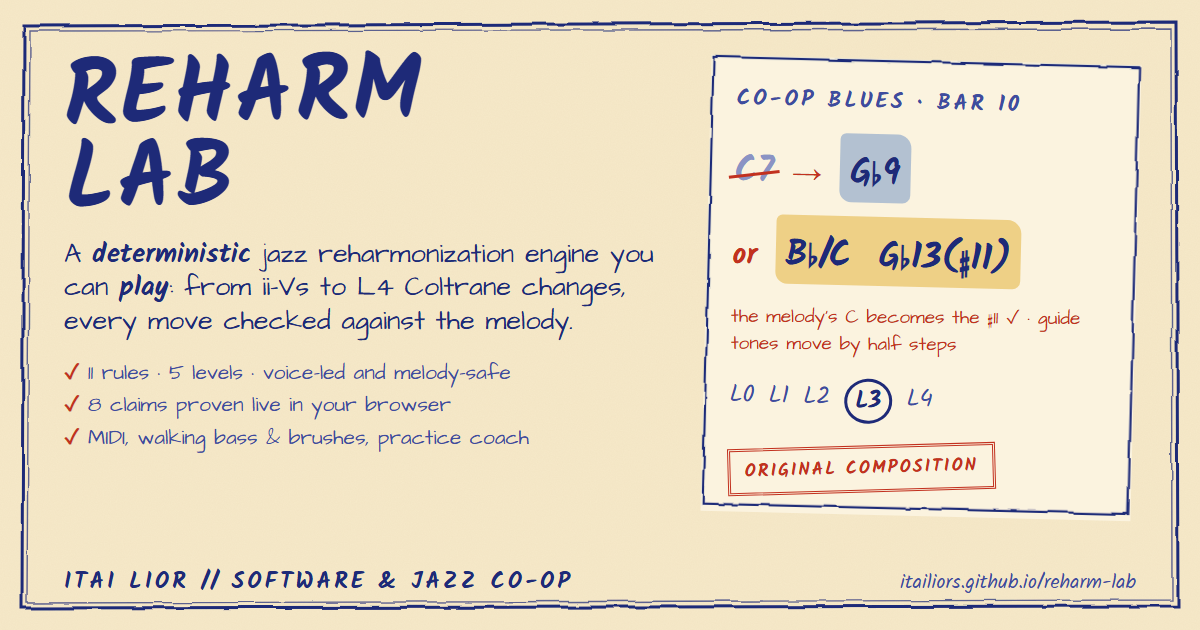
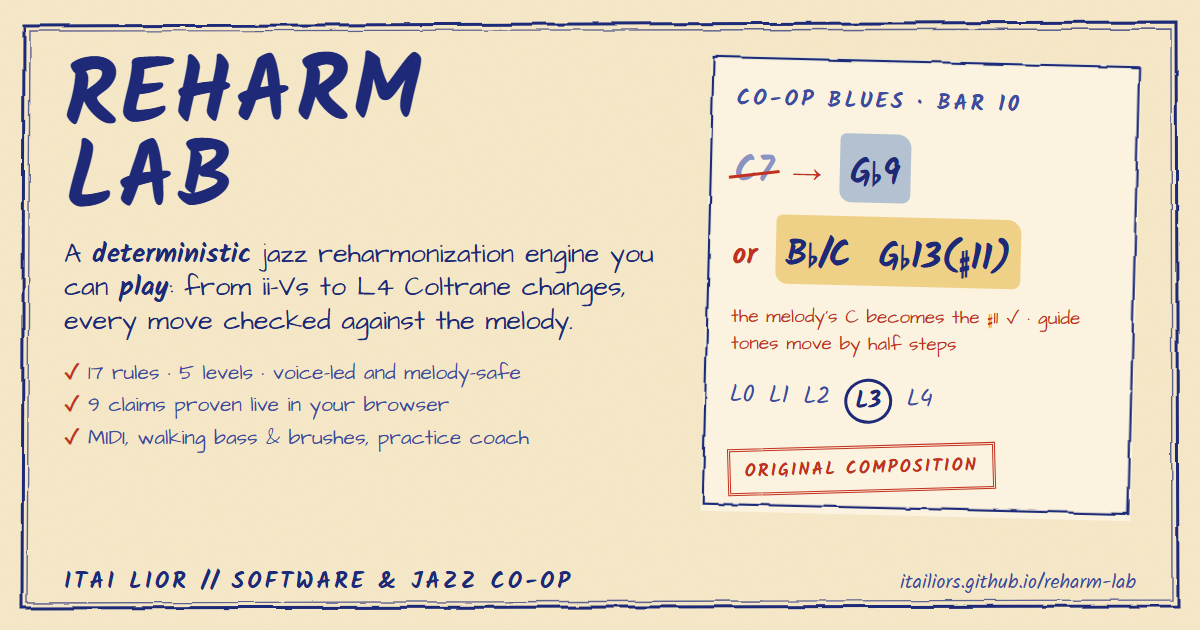
docs: accuracy pass (17 rules, 9 claims, Catcher beta, OG card re-render) (#18)

Changed region(s): [[0.0617, 0.573, 0.4317, 0.6032], [0.0617, 0.6333, 0.37, 0.6635]]

diff --git a/apps/web/scripts/og-card.html b/apps/web/scripts/og-card.html
@@ -79,8 +79,8 @@
         <h1>Reharm<br />Lab</h1>
         <p class="tag">A <b>deterministic</b> jazz reharmonization engine you can <b>play</b>: from ii–Vs to L4 Coltrane changes, every move checked against the melody.</p>
         <ul>
-          <li>11 rules · 5 levels · voice-led and melody-safe</li>
-          <li>8 claims proven live in your browser</li>
+          <li>17 rules · 5 levels · voice-led and melody-safe</li>
+          <li>9 claims proven live in your browser</li>
           <li>MIDI, walking bass &amp; brushes, practice coach</li>
         </ul>
       </div>

diff --git a/docs/STATE_OF_THE_UNION.md b/docs/STATE_OF_THE_UNION.md
@@ -204,6 +204,13 @@ Moved to the root `CLAUDE.md` (loaded automatically in every session): the archi
 
 ## 4. What works now (verified)
 
+### Harmony Catcher 7a–7d (2026-11-23, beta; PR #15)
+
+- **Engine:** `packages/theory-core/src/harmonyCatcher.ts`. `matchChord` (guide tones required, per-quality tension table, slash basses required), `catchMoves` / `catchMovesTraced`, and voicing moves caught by their own grips. A move is caught only when the original chord can't explain the strike.
+- **Live stamps in Practice:** `apps/web/src/practice/catcherSession.ts` (pure, 6 tests) and the `useHarmonyCatcher` hook (`apps/web/src/practice/useHarmonyCatcher.ts`, mounted in `PracticeMode.tsx`). The "🕵 Catcher" toggle in the Practice header is off by default and persisted in `reharm.catcher`. Verified in the demo build with fake MIDI: B♭m7 → E♭9 in bar 10 stamped "Backdoor ii–V · bar 10, in F"; the band's own tritone sub was not stamped.
+- **Not built (post-MVP):** 7e (a `catches` table, `POST /api/catches`, a seeded sample for the demo) and 7f (a "Your vocabulary" panel, plus a proof that the written changes are never caught). Catches feed the fingerprint only, never SM-2. Spec: `docs/plans/harmony-catcher.md`.
+- **Counts from the code (2026-11-25):** 17 rules in `RULES` (L1–L4; L0 is the original changes, so 5 dial stops) and 9 `PROOFS`. Tests: 1211 theory-core + 54 API + 231 web.
+
 ### The learning system (2026-11-20)
 
 - **One lesson source.** Every rule (17) and basics node (10) has a 3–5-step lesson in theory-core, in all 12 keys. A move's card text *is* its lesson (`buildMove`), the Coach cues read the same facts, and the Deep Dive prompt gets the lesson as prose. The `lessons-honest` proof checks every note a lesson names is the engine's.
@@ -262,7 +269,9 @@ Moved to the root `CLAUDE.md` (loaded automatically in every session): the archi
 
 1. ~~**Phase 6:** the five-persona review~~ **Done:** `0012323` (#10, engineer items), `ff9e242` (deferred calls), `0a402df` (#13, beginner wording).
 2. **Read the ⚙ counters** after a week of real use, from about 2026-11-27 (`learn.finish`, `prereq.continueAnyway / prereq.view`, `why.open`). If Continue anyway is ≥ 50%, build 3f ("I know this" test-out, parked).
-3. **Waiting on Itai:** A/B the experimental "Warm club" band sound on `exp/warm-band-tone` (no PR yet); ~~Claude-written demo Deep Dives~~ (done 2026-11-23); the og-card re-render (it still says "11 rules" / "8 claims").
+3. **Waiting on Itai:** A/B the experimental "Warm club" band sound on `exp/warm-band-tone` (no PR yet); ~~Claude-written demo Deep Dives~~ (done 2026-11-23); ~~the og-card re-render~~ (done 2026-11-25: it now says 17 rules / 9 claims).
+
+**The launch track now lives in `docs/plans/mvp-release.md` (the MVP checklist). Follow that; the section "Next: the launch track" below is background.**
 4. **Decided (Itai, 2026-11-23): readable spellings stay.** Some rule chords in flat keys are spelled enharmonically, e.g. ♭VI–♭VII in G♭ reads Dmaj7 → E6/9, not E𝄫maj7 → F♭6/9. Not a gap; don't "fix" it to strict letter spelling.
 
 ### Done in the last session (verify, then commit if needed)
@@ -302,7 +311,7 @@ Moved to the root `CLAUDE.md` (loaded automatically in every session): the archi
   - the demo Deep Dive file is keyed by tune as well as move id, with an API test guarding the `functional.secondaryTwoFive@2.1` collision.
 - **Ideas:** "Sunny Side" and "I Got Rhythm" melodies could be added only from the 1930 sheet music. Only Gershwin's is free under life + 70.
 
-**Tests:** 132 (115 theory-core + 17 API); typecheck clean.
+**Tests (at the time of this section):** 132 (115 theory-core + 17 API); typecheck clean. Current: 1496 (see §4).
 
 ### Next: the launch track
 
@@ -317,7 +326,7 @@ Moved to the root `CLAUDE.md` (loaded automatically in every session): the archi
 - **Still to do:** record the 20-second GIF (the dial turning, chords moving, proofs going green). Many recruiters never click through.
 - ~~**Deep-link URLs**~~ **Done 2026-11-19:** `apps/web/src/deepLink.ts` (`tune key level move pick keep tempo play`), a ▶ `PlayPrompt` for `play=1`, the address bar kept in sync (debounced `replaceState`) and a 🔗 Share button. Verified in the demo build; see the README section "Shareable reharms".
 - ~~**Study-mode shortcuts**~~ **Done 2026-11-19 (`062c0eb`):** `studyKeys.ts` (Space, ← → moves, ↑ ↓ dial, A, L, `[ ]`, `, .`, `?`) and a shared modal `?` card (`components/Shortcuts.tsx`); Practice opens it from "⌨ Shortcuts" below `xl`. Previous/next *chord* (Itai's Notion list) followed: `Shift + ← →` and the ‹ chord / chord › buttons in Chord by chord step a chord cursor (theory-core `chordCursor.ts`, `stepChord`) through the tune's changes, opening that chord's selector and the reharm's move over it, or inking a bare chord red on the lead sheet.
-- **Second delighter:** Harmony Catcher (recommended), or the Reactive Rhythm Section.
+- **Second delighter:** ~~Harmony Catcher~~ 7a–7d shipped as beta (§4); 7e/7f are post-MVP. Or the Reactive Rhythm Section.
 - Smaller items:
   - ~~a sustain-pedal policy~~ **Done 2026-11-23:** sound-only; the Coach grades held keys (`midi/sustainPolicy.test.ts`);
   - ~~an "audio blocked / tap to enable" status~~ **Done 2026-11-23:** `AudioBlockedPill` + `audio/audioGate.ts` (700 ms grace);
@@ -360,7 +369,7 @@ The **Musician's Wishlist** in the README holds the full set of ideas: Expressio
 ```bash
 npm run dev            # web :5173 + api :8787
 npm run dev:demo       # read-only demo (web + api)
-npm test               # all workspaces (132 tests)
+npm test               # all workspaces (1496 tests)
 npm run typecheck
 npm run build          # web → apps/web/dist
 npm run build:demo     # static demo → apps/web/dist-demo

diff --git a/README.md b/README.md
@@ -90,13 +90,13 @@ The goal isn't a chord-substitution generator. It's a practice partner that teac
   - Every Control Change travels on a `controlBus`, the twin of the note bus, so later controller features (MIDI learn, a foot switch) plug in the same way.
 
 ### 🧠 The rule library
-Fourteen deterministic rules. Each works in intervals relative to its local target, so it applies in all 12 keys and to tonicized chords:
+Seventeen deterministic rules. Each works in intervals relative to its local target, so it applies in all 12 keys and to tonicized chords:
 
 | Level | Rules |
 |---|---|
-| L1–L2 | Secondary / related ii–V · tritone substitution · upper-structure triads (♭VI over V7; II over V7 for a Lydian-dominant 13♯11) · rootless ii–V–I (Type A → B → A grips) · passing diminished (♯I°7 as a rootless V7♭9; chromatic ♭iii°7) · minor line cliché (im → im(maj7) → im7 → im6) |
-| L3 | Gospel half-step turnaround · backdoor ii–V (iv–♭VII7) · ♭VI–♭VII–I · borrowed iv (minor plagal) · common-tone diminished |
-| L4 | Coltrane substitution (three key centres a major 3rd apart) · constant structure (the target's shape planed down by half steps) |
+| L1–L2 | Secondary / related ii–V · secondary dominant · tritone substitution · upper-structure triads (♭VI over V7; II over V7 for a Lydian-dominant 13♯11) · rootless ii–V–I (Type A → B → A grips) · passing diminished (♯I°7 as a rootless V7♭9; chromatic ♭iii°7) · minor line cliché (im → im(maj7) → im7 → im6) |
+| L3 | Gospel half-step turnaround · backdoor ii–V (iv–♭VII7) · ♭VI–♭VII–I · borrowed iv (minor plagal) · common-tone diminished · mediant dominant (the V7 of iii) |
+| L4 | Coltrane substitution (three key centres a major 3rd apart) · constant structure (the target's shape planed down by half steps) · one note on top (re-harmonizes under a held melody note) |
 
 Every move goes through the same melody filter and voice-leading score, and comes with its own explanation and a key-independent rule.
 
@@ -336,7 +336,7 @@ The **API suite** runs the server in-process against throwaway databases. It cov
 A setup file points the default database path at a sentinel, so tests can never write to your real library.
 
 ```bash
-npm test          # 208 tests (engine + API), several thousand generated cases
+npm test          # 1,496 tests (1,211 engine + 54 API + 231 web), several thousand generated cases
 npm run typecheck # all three workspaces (and the e2e folder)
 npm run e2e       # Playwright golden paths in Chromium, against the static demo build
 ```
@@ -475,7 +475,7 @@ Every reharm hides a beautiful chromatic line in the tenor voice. The app plays 
 **🎺 Gig Mode: the bandstand, not the practice room**
 The app calls the tune: a random key, a random tempo, a two-bar count-off that won't wait. Halfway through, "the singer wants it in A". You cue the last chorus and the tag from the keyboard. Practice rooms train recall; bandstands train recall under pressure, which is what gigging players actually lack. It reuses the global key change, the count-in and the review queue.
 
-**🕵 Harmony Catcher: get credit for what you play by accident**
+**🕵 Harmony Catcher: get credit for what you play by accident** *(shipped as beta: live stamps in Practice behind the "🕵 Catcher" toggle; saving your catches into a fingerprint is coming)*
 While you comp or improvise freely, the engine listens for its own moves in your playing. Play a backdoor ii–V in E♭ without being asked, and it stamps your passport: *"You just played a backdoor ii–V in E♭."* Over time this becomes your harmonic fingerprint: the voicings you actually use, and reharm suggestions written in your own hand. Learning flips from assigned drills to discovering your own vocabulary, and the engine proves it can *recognise* harmony, not just generate it.
 
 ---
